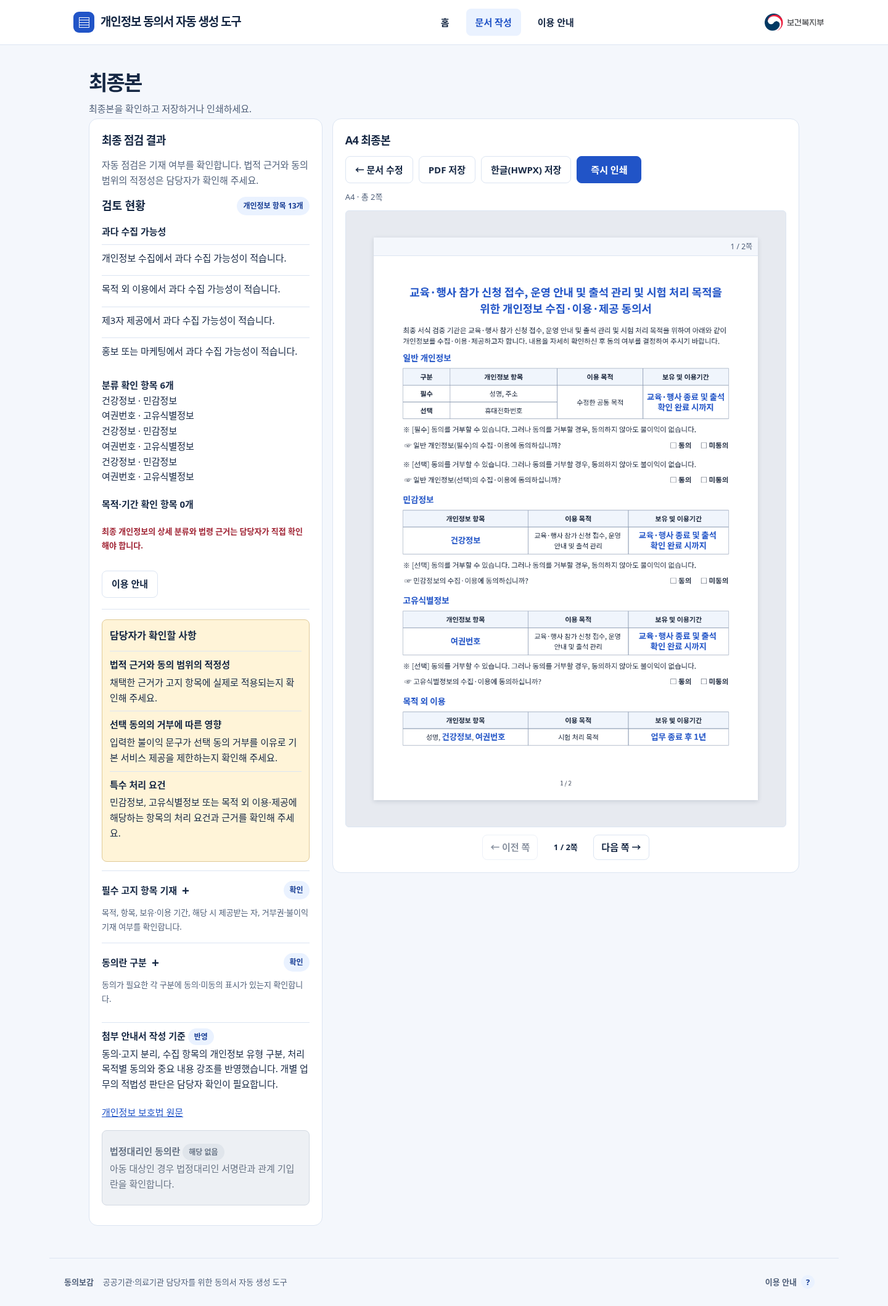
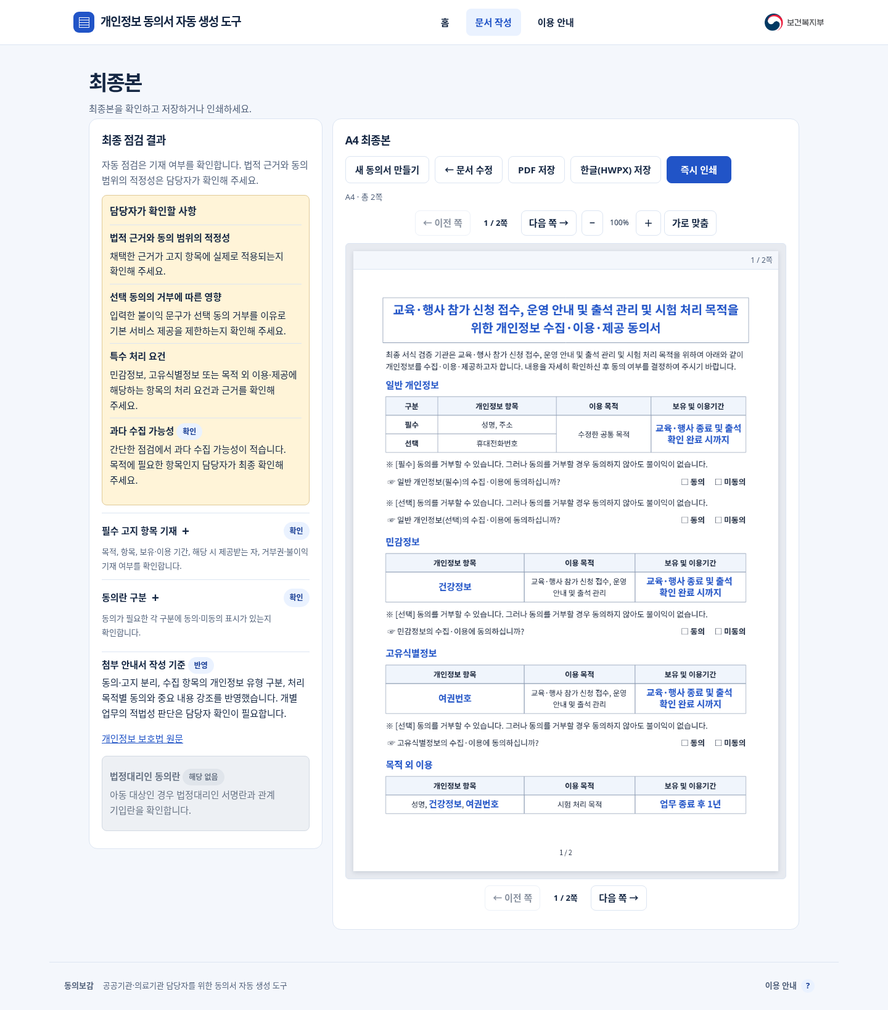
Improve preview zoom controls, final review and Hangul document spacing

diff --git a/app.js b/app.js
@@ -43,7 +43,7 @@ const itemNames = new Map(
   ['연령','나이'],
   ['국적'],
   ['소속','소속명'],
-  ['소속 업체명','소속 회사명','소속 기업명'],
+  ['소속 기관명','소속 업체명','소속 회사명','소속 기업명'],
   ['부서명','소속 부서','부서 이름'],
   ['직위'],
   ['직급'],
@@ -216,7 +216,7 @@ function home(){
 }
 const canSetRequired = key => Object.hasOwn(groupNames,key)&&key!=='marketing';
 const itemPresetGroups = [
- ['일반 개인정보', ['성명','휴대전화번호','전화번호','생년월일','이메일 주소','성별','주소','부서명','소속 업체명','업무용 연락처','은행명','계좌번호','예금주명']],
+ ['일반 개인정보', ['성명','휴대전화번호','전화번호','생년월일','이메일 주소','성별','주소','부서명','소속 기관명','업무용 연락처','은행명','계좌번호','예금주명']],
  ['민감정보', ['건강정보','범죄경력']],
  ['고유식별정보', ['주민등록번호','외국인등록번호','운전면허번호','여권번호']]
 ];
@@ -608,7 +608,7 @@ const refusalText = (s,preview) => {
  return preview?'<em class="doc-refusal-missing">아직 입력하지 않았습니다</em>':'';
 };
 const note = text => `<p class="doc-note"><span class="doc-note-marker" aria-hidden="true">※</span> <span>${text}</span></p>`;
-const refusalPrefix = s => `${s.required==='공통'?'':'['+(s.required||'선택')+'] '}동의를 거부할 수 있습니다. 그러나 동의를 거부할 경우, `;
+const refusalPrefix = s => `${s.required==='공통'?'':'['+(s.required||'선택')+'] '}동의를 거부할 수 있습니다. 그러나 동의를 거부할 경우 `;
 const marketingContact = '<p class="doc-marketing"><strong>제공하신 연락처로 마케팅 안내나 홍보 연락을 받을 수 있습니다.</strong></p>';
 const editableText = (label,key,value,editable) => `<span class="doc-text" ${editable?`contenteditable="plaintext-only" role="textbox" aria-label="${safe(label)}" data-edit="${key}"`:''}>${safe(state.edits[key]??value)}</span>`;
 const noticeBasisText=item=>[...new Set((item.bases||[]).filter(b=>LawBasis.rules[b.basisCode]?.effect!=='consent').map(b=>[...new Set([LawBasis.rules[b.basisCode]?.pipa,b.cite].filter(Boolean))].join(' · ')))].join(' / ');
@@ -647,7 +647,7 @@ function noticeTable(sections,editable){
 }
 const signatureLine = '_'.repeat(24);
 function signatureBlock(){
- return `<article class="sign"><p>　　　　년　　 월　　 일</p><p>정보주체: <span class="signature-line">${signatureLine}</span> (서명)</p>${state.child?`<p class="guardian-heading"><strong>만 14세 미만 아동의 법정대리인 동의</strong></p><p>법정대리인: <span class="signature-line">${signatureLine}</span> (서명)</p><p class="guardian-relationship">아동과의 관계: <span class="signature-line relationship-line">${'_'.repeat(16)}</span></p>`:''}</article>`;
+ return `<article class="sign"><p class="signature-date">　　　　년　　 월　　 일</p><p>정보주체: <span class="signature-line">${signatureLine}</span> (서명)</p>${state.child?`<p class="guardian-heading"><strong>만 14세 미만 아동의 법정대리인 동의</strong></p><p>법정대리인: <span class="signature-line">${signatureLine}</span> (서명)</p><p class="guardian-relationship">아동과의 관계: <span class="signature-line relationship-line">${'_'.repeat(16)}</span></p>`:''}</article>`;
 }
 function documentHTML(editable=false){
  const rows=sections();if(!rows.length)return '';
@@ -656,9 +656,13 @@ function documentHTML(editable=false){
  const title=state.title.trim()||suggestedTitle(),intro=state.intro.trim()||defaultIntro();
  return `<section class="doc"><h1>${safe(title)}</h1><p class="doc-intro">${safe(intro)}</p>${[...consentGroups.values()].map(group=>categoryTable(group,editable)).join('')}${noticeGroups.size?`<section class="notice-section"><h3 class="doc-notice-heading">고지사항</h3>${[...noticeGroups.values()].map(group=>noticeTable(group,editable)).join('')}</section>`:''}${consentGroups.size?signatureBlock():''}<p class="doc-agency"><strong>${safe(state.agency||'기관명 미입력')} 귀중</strong></p></section>`;
 }
-function previewMarkup(html,editing=false){
- return `<p class="a4-preview-status muted" role="status">${editing?'표 수정 중입니다. 저장하면 A4 쪽 미리보기가 갱신됩니다.':'A4 미리보기를 준비하고 있습니다…'}</p><div class="a4-document-frame" role="region" aria-label="A4 문서 쪽 미리보기" ${editing?'hidden':''}></div><nav class="a4-page-nav" aria-label="미리보기 쪽 이동" ${editing?'hidden':''}><button data-preview-move="-1" disabled>← 이전 쪽</button><output class="a4-page-counter" aria-live="polite">1 / 1쪽</output><button data-preview-move="1" disabled>다음 쪽 →</button></nav><div id="preview-docs" class="document-source" ${editing?'':'hidden'}>${html}</div>`;
+function previewControls(editing,top=false){
+ return `<nav class="a4-page-nav ${top?'a4-nav-top':''}" aria-label="미리보기 ${top?'상단':'하단'} 쪽 이동" ${editing?'hidden':''}><button data-preview-move="-1" disabled>← 이전 쪽</button><output class="a4-page-counter" aria-live="polite">1 / 1쪽</output><button data-preview-move="1" disabled>다음 쪽 →</button>${top?'<span class="preview-zoom"><button data-preview-zoom="-0.1" aria-label="미리보기 축소">−</button><output class="preview-zoom-value">100%</output><button data-preview-zoom="0.1" aria-label="미리보기 확대">＋</button><button data-preview-zoom="fit">가로 맞춤</button></span>':''}</nav>`;
 }
+function previewMarkup(html,editing=false){
+ return `<p class="a4-preview-status muted" role="status">${editing?'표 수정 중입니다. 저장하면 A4 쪽 미리보기가 갱신됩니다.':'A4 미리보기를 준비하고 있습니다…'}</p>${previewControls(editing,true)}<div class="a4-document-frame" role="region" aria-label="A4 문서 쪽 미리보기" data-zoom="1" ${editing?'hidden':''}></div>${previewControls(editing)}<div id="preview-docs" class="document-source" ${editing?'':'hidden'}>${html}</div>`;
+}
+
 let a4PreviewVersion=0,a4PreviewTimer,pdfViewer;
 function scheduleA4Preview(){
  clearTimeout(a4PreviewTimer);const version=++a4PreviewVersion;
@@ -692,17 +696,17 @@ function scheduleA4Preview(){
 
 function fitA4Page(){
  const frame=document.querySelector('.a4-document-frame'),paper=frame?.querySelector('.a4-paper:not([hidden])');if(!paper)return;
- const position=frame.getBoundingClientRect().top,top=position>=innerHeight?180:Math.max(16,position),available=Math.max(210,Math.min(1000,innerHeight-top-78));
- frame.style.height=available+'px';
- const labelHeight=paper.querySelector('.a4-page-label').getBoundingClientRect().height;
- const width=Math.max(1,Math.min(frame.clientWidth-24,(available-28-labelHeight)*210/297));paper.style.width=width+'px';
+ const zoom=Number(frame.dataset.zoom)||1;frame.classList.toggle('preview-magnified',zoom>1);
+ const width=Math.max(1,frame.clientWidth-24)*zoom;paper.style.width=width+'px';
+ document.querySelectorAll('.preview-zoom-value').forEach(n=>n.textContent=Math.round(zoom*100)+'%');
 }
+
 function showA4Page(page){
  const frame=document.querySelector('.a4-document-frame');if(!frame)return;
  const pages=[...frame.querySelectorAll('.a4-paper')];page=Math.max(1,Math.min(pages.length,page));if(!pages.length)return;
  pages.forEach((paper,n)=>paper.hidden=n+1!==page);frame.dataset.currentPage=page;
- document.querySelector('.a4-page-counter').textContent=page+' / '+pages.length+'쪽';
- document.querySelector('[data-preview-move="-1"]').disabled=page===1;document.querySelector('[data-preview-move="1"]').disabled=page===pages.length;
+ document.querySelectorAll('.a4-page-counter').forEach(n=>n.textContent=page+' / '+pages.length+'쪽');
+ document.querySelectorAll('[data-preview-move="-1"]').forEach(n=>n.disabled=page===1);document.querySelectorAll('[data-preview-move="1"]').forEach(n=>n.disabled=page===pages.length);
  fitA4Page();
 }
 window.addEventListener('resize',fitA4Page);
@@ -710,11 +714,11 @@ window.addEventListener('resize',fitA4Page);
 function output(){
  const rows=hasConsent()?refusalSections():[];
  const docs=documentHTML(documentEditing);
- return `<div class="output-layout"><div class="stack output-settings"><section class="panel review-status">${reviewStatus()}</section><section class="panel stack"><h2>문서 기본 설정</h2>${field('문서 제목','title',state.title,suggestedTitle(),false,true)}<div><button data-title>${hasConsent()?'제목 후보 적용':'고지서 제목 후보 적용'}</button></div>${field('제목 아래 안내사항','intro',state.intro,defaultIntro(),true,true)}<div><button data-intro>${hasConsent()?'안내사항 후보 적용':'고지사항 안내문 적용'}</button></div></section>
+ return `<div class="output-layout"><div class="stack output-settings"><section class="panel stack"><h2>문서 기본 설정</h2>${field('문서 제목','title',state.title,suggestedTitle(),false,true)}<div><button data-title>${hasConsent()?'제목 후보 적용':'고지서 제목 후보 적용'}</button></div>${field('제목 아래 안내사항','intro',state.intro,defaultIntro(),true,true)}<div><button data-intro>${hasConsent()?'안내사항 후보 적용':'고지사항 안내문 적용'}</button></div></section>
  ${hasConsent()?`<fieldset class="panel child-choice"><legend>만 14세 미만 아동 대상 여부${requiredMark}</legend><p class="muted">아동 대상이면 동의서에 법정대리인 동의·서명란을 추가합니다.</p><div class="actions"><label class="check"><input type="radio" name="child" required data-child value="yes" ${state.child?'checked':''}> 대상</label><label class="check"><input type="radio" name="child" required data-child value="no" ${state.child===false?'checked':''}> 대상 아님</label></div></fieldset>`:''}
  <section class="panel stack"><h2>동의 거부 시 불이익</h2>${rows.length?'<p class="muted">동의를 거부하거나 정보를 제공하지 않았을 때의 영향을 적어 주세요.</p>':''}${rows.length?rows.map(s=>field(sectionTitle(s)+(s.classification==='rnn'?' · 번호 미제공 시 안내':''),'refusals.'+s.k.replaceAll('.',':'),state.refusals[s.k],'해당하는 불이익 또는 안내 내용을 입력하세요.',true,true)).join(''):'<p class="not-applicable">동의를 받아 개인정보를 수집하지 않기 때문에 해당사항 없습니다.</p>'}</section>
 </div>
- <section class="panel preview-panel"><div class="panelhead"><h2>A4 문서 미리보기</h2><button data-toggle-document-edit aria-pressed="${documentEditing}">${documentEditing?'저장하기':'표 내용 직접 수정'}</button></div><div class="actions export"><button class="primary" data-finish ${docs?'':'disabled'}>완성하기 →</button></div><p class="notice" id="output-status" role="status"></p>${previewMarkup(docs||'<p>문서에 표시할 항목이 없습니다.</p>',documentEditing)}</section></div>`;
+ <section class="panel preview-panel"><div class="panelhead"><h2>A4 문서 미리보기</h2><div class="preview-edit-actions"><button data-toggle-document-edit aria-pressed="${documentEditing}">${documentEditing?'저장하기':'내용 직접 수정하기'}</button><button class="primary" data-finish ${docs?'':'disabled'}>완성하기</button></div></div><p class="notice" id="output-status" role="status"></p>${previewMarkup(docs||'<p>문서에 표시할 항목이 없습니다.</p>',documentEditing)}</section></div>`;
 }
 function validateDraft(){
  const missingRefusal=hasConsent()?refusalSections().find(s=>!state.refusals[s.k]?.trim()):null;
@@ -778,15 +782,16 @@ function finalPage(){
  const pill=status=>`<span class="pill ${['확인','해당 없음','반영'].includes(status)?'':'pending'}">${status}</span>`;
  const row=([title,status,description])=>`<li><div><strong>${safe(title)}</strong> ${status==='담당자 확인 필요'?'':pill(status)}</div><p>${safe(description)}</p></li>`;
  const auditBody=choices=>audit.length?audit.map(section=>`<section><h3>${safe(section.title)}</h3><ul>${section.checks.filter(([label])=>/독립된 동의|동의란의/.test(label)===choices).map(([label,ok])=>`<li><label><input type="checkbox" disabled ${ok?'checked':''}>${safe(label)} <span>${ok?'확인':'보완 필요'}</span></label></li>`).join('')}</ul></section>`).join(''):'<p class="not-applicable">동의 항목이 없는 고지서입니다. 동의란 점검은 해당사항 없습니다.</p>';
- const pending=items.filter(([,status])=>!['확인','해당 없음','반영'].includes(status));
+ const collectionRisk=entries().some(contextualRisk);
+ const pending=[...items.filter(([,status])=>!['확인','해당 없음','반영'].includes(status)),['과다 수집 가능성',collectionRisk?'담당자 확인 필요':'확인',collectionRisk?'수집 목적에 비해 과다 수집 가능성이 있습니다. 항목의 필요성은 담당자가 최종 판단해 주세요.':'간단한 점검에서 과다 수집 가능성이 적습니다. 목적에 필요한 항목인지 담당자가 최종 확인해 주세요.']];
  return `<div class="title"><h1 tabindex="-1">최종본</h1><p>최종본을 확인하고 저장하거나 인쇄하세요.</p></div>
  <div class="final-layout"><section class="panel final-review" aria-labelledby="final-review-title"><h2 id="final-review-title">최종 점검 결과</h2>
- <p class="muted">자동 점검은 기재 여부를 확인합니다. 법적 근거와 동의 범위의 적정성은 담당자가 확인해 주세요.</p><section class="final-status">${reviewStatus()}</section>
+ <p class="muted">자동 점검은 기재 여부를 확인합니다. 법적 근거와 동의 범위의 적정성은 담당자가 확인해 주세요.</p>
  <section class="human-review"><h3>담당자가 확인할 사항</h3><ul>${pending.map(row).join('')}</ul></section>
  <details class="review-checks" data-audit-kind="fields"><summary><span class="review-check-title"><strong>${items[0][0]}</strong><span class="review-toggle" aria-hidden="true"></span>${pill(items[0][1])}</span><span class="review-check-description">${items[0][2]}</span></summary><div class="consent-audit">${auditBody(false)}</div></details>
  <details class="review-checks" data-audit-kind="choices"><summary><span class="review-check-title"><strong>동의란 구분</strong><span class="review-toggle" aria-hidden="true"></span>${pill(items[1][1])}</span><span class="review-check-description">${items[1][2]}</span></summary><div class="choice-audit">${auditBody(true)}</div></details>
  <ul>${items.slice(2).filter(([,status])=>['확인','반영'].includes(status)).map(row).join('')}</ul><a href="${reference}" target="_blank" rel="noopener">개인정보 보호법 원문</a><ul class="not-applicable-review">${items.slice(2).filter(([,status])=>status==='해당 없음').map(row).join('')}</ul></section>
- <section class="panel preview-panel final-preview"><div class="panelhead"><h2>A4 최종본</h2></div><div class="actions export"><button data-go="4">← 문서 수정</button><button data-pdf>PDF 저장</button><button data-hwpx>한글(HWPX) 저장</button><button class="primary" data-print>즉시 인쇄</button></div><p class="notice" id="output-status" role="status"></p>${previewMarkup(html)}</section></div>`;
+ <section class="panel preview-panel final-preview"><div class="panelhead"><h2>A4 최종본</h2></div><div class="actions export"><button data-new-consent>새 동의서 만들기</button><button data-go="4">← 문서 수정</button><button data-pdf>PDF 저장</button><button data-hwpx>한글(HWPX) 저장</button><button class="primary" data-print>즉시 인쇄</button></div><p class="notice" id="output-status" role="status"></p>${previewMarkup(html)}</section></div>`;
 }
 
 function refreshPreview(){
@@ -874,7 +879,7 @@ const quickTemplates = [
   title:'용역·유지보수 인력 보안 및 출입 동의서',
   purpose:'용역·유지보수 인력의 출입 권한 발급·회수 및 출입 관리',
   period:'출입 권한 회수 완료 시까지',
-  items:['성명','소속 업체명','업무용 연락처'],
+  items:['성명','소속 기관명','업무용 연락처'],
   note:'자동 입력 기간은 출입 등록 정보 기준입니다. 출입기록을 함께 처리하면 기관의 기록 보존 기준과 연락처 수집 필요 여부를 확인하세요.'
  },
  {
@@ -1178,6 +1183,8 @@ document.addEventListener('click',e=>{
  const group=e.target.closest('.law-options-group>summary');if(group){const type=group.parentElement.dataset.lawGroup;lawSearch.groupOpen??={};lawSearch.groupOpen[type]=!group.parentElement.open;if(!group.parentElement.open){e.preventDefault();lawSearch.showAlternatives??={};lawSearch.showAlternatives[type]=true;lawSearch.hidden=(lawSearch.hidden||[]).filter(n=>lawSearch.candidates[n]?.type!==type);render();} }
  if(!e.target.closest('.item-picker'))closeItemMenus();
  const b=e.target.closest('button');if(!b)return;const d=b.dataset;
+ if(d.previewZoom){const frame=document.querySelector('.a4-document-frame');frame.dataset.zoom=d.previewZoom==='fit'?1:Math.max(.5,Math.min(2,Math.round(((Number(frame.dataset.zoom)||1)+Number(d.previewZoom))*10)/10));fitA4Page();return;}
+ if('newConsent' in d){state=newDraft();lawSearch={busy:false,candidates:[],error:'',note:'',mode:'live',rejected:[],version:lawSearch.version+1};freshLawPicker();editorOpen=false;documentEditing=false;finalDocument=null;basicsChecked=false;message='';tab='collect';reached=0;go(1);return;}
  if(d.previewMove){showA4Page(Number(document.querySelector('.a4-document-frame')?.dataset.currentPage||1)+Number(d.previewMove));return;}
  if(d.itemMenu){const menu=document.getElementById('item-options-'+d.itemMenu),open=menu.hidden;closeItemMenus();menu.hidden=!open;b.setAttribute('aria-expanded',String(open));if(open)positionItemMenu(menu,b);}
  if(d.selectItem){const select=document.querySelector(`[data-item-preset="${d.selectItem}"]`);select.value=d.value;select.dispatchEvent(new Event('change',{bubbles:true}));}
@@ -1409,8 +1416,8 @@ function documentTableGrid(table){
 
 // Values below use HWPUNIT (1/100 pt). The width matches the A4 template's text area.
 function hwpxTable(table,paragraph,nextId,preview,cellRenderer){
- const rows=[...table.rows],width=42520,rowHeight=1800;
- const weights=[...rows[0].cells].map(cell=>['구분','처리 방식'].includes(cell.textContent.trim())?0.55:1);
+ const rows=[...table.rows],width=42520,rowHeight=2500;
+ const weights=[...rows[0].cells].map(cell=>['구분','처리 방식'].includes(cell.textContent.trim())?0.32:1);
  const total=weights.reduce((sum,weight)=>sum+weight,0);
  const widths=weights.map(weight=>Math.floor(width*weight/total));
  widths[widths.length-1]+=width-widths.reduce((sum,part)=>sum+part,0);
@@ -1421,10 +1428,10 @@ function hwpxTable(table,paragraph,nextId,preview,cellRenderer){
   return `<hp:tr>${row.filter(entry=>entry.start===rowIndex).map(({cell,column,span})=>{
    const emphasis=!header&&(cell.tagName==='TH'||cell.querySelector('strong'));
    const content=cellRenderer?cellRenderer(cell,header):cell.textContent.trim().split(/\r?\n/).map(line=>paragraph(line,20,header?9:emphasis?7:0)).join('');
-   return `<hp:tc name="" header="${Number(header)}" hasMargin="0" protect="0" editable="0" dirty="1" borderFillIDRef="${header||cell.tagName==='TH'?4:3}"><hp:subList id="" textDirection="HORIZONTAL" lineWrap="BREAK" vertAlign="CENTER" linkListIDRef="0" linkListNextIDRef="0" textWidth="0" textHeight="0" hasTextRef="0" hasNumRef="0">${content}</hp:subList><hp:cellAddr colAddr="${column}" rowAddr="${rowIndex}"/><hp:cellSpan colSpan="1" rowSpan="${span}"/><hp:cellSz width="${widths[column]}" height="${rowHeight*span}"/><hp:cellMargin left="510" right="510" top="141" bottom="141"/></hp:tc>`;
+   return `<hp:tc name="" header="${Number(header)}" hasMargin="0" protect="0" editable="0" dirty="1" borderFillIDRef="${header||cell.tagName==='TH'?4:3}"><hp:subList id="" textDirection="HORIZONTAL" lineWrap="BREAK" vertAlign="CENTER" linkListIDRef="0" linkListNextIDRef="0" textWidth="0" textHeight="0" hasTextRef="0" hasNumRef="0">${content}</hp:subList><hp:cellAddr colAddr="${column}" rowAddr="${rowIndex}"/><hp:cellSpan colSpan="1" rowSpan="${span}"/><hp:cellSz width="${widths[column]}" height="${rowHeight*span}"/><hp:cellMargin left="510" right="510" top="420" bottom="420"/></hp:tc>`;
   }).join('')}</hp:tr>`;
  }).join('');
- return `<hp:p id="${nextId()}" paraPrIDRef="0" styleIDRef="0" pageBreak="0" columnBreak="0" merged="0"><hp:run charPrIDRef="0"><hp:tbl id="${id}" zOrder="0" numberingType="TABLE" textWrap="TOP_AND_BOTTOM" textFlow="BOTH_SIDES" lock="0" dropcapstyle="None" pageBreak="CELL" repeatHeader="1" rowCnt="${rows.length}" colCnt="${widths.length}" cellSpacing="0" borderFillIDRef="3" noAdjust="0"><hp:sz width="${width}" widthRelTo="ABSOLUTE" height="${rowHeight*rows.length}" heightRelTo="ABSOLUTE" protect="0"/><hp:pos treatAsChar="1" affectLSpacing="0" flowWithText="1" allowOverlap="0" holdAnchorAndSO="0" vertRelTo="PARA" horzRelTo="COLUMN" vertAlign="TOP" horzAlign="LEFT" vertOffset="0" horzOffset="0"/><hp:outMargin left="0" right="0" top="0" bottom="0"/><hp:inMargin left="510" right="510" top="141" bottom="141"/>${cells}</hp:tbl></hp:run></hp:p>`;
+ return `<hp:p id="${nextId()}" paraPrIDRef="0" styleIDRef="0" pageBreak="0" columnBreak="0" merged="0"><hp:run charPrIDRef="0"><hp:tbl id="${id}" zOrder="0" numberingType="TABLE" textWrap="TOP_AND_BOTTOM" textFlow="BOTH_SIDES" lock="0" dropcapstyle="None" pageBreak="CELL" repeatHeader="1" rowCnt="${rows.length}" colCnt="${widths.length}" cellSpacing="0" borderFillIDRef="3" noAdjust="0"><hp:sz width="${width}" widthRelTo="ABSOLUTE" height="${rowHeight*rows.length}" heightRelTo="ABSOLUTE" protect="0"/><hp:pos treatAsChar="1" affectLSpacing="0" flowWithText="1" allowOverlap="0" holdAnchorAndSO="0" vertRelTo="PARA" horzRelTo="COLUMN" vertAlign="TOP" horzAlign="LEFT" vertOffset="0" horzOffset="0"/><hp:outMargin left="0" right="0" top="0" bottom="0"/><hp:inMargin left="510" right="510" top="420" bottom="420"/>${cells}</hp:tbl></hp:run></hp:p>`;
 }
 
 async function createHwpx(body){
@@ -1440,6 +1447,7 @@ async function createHwpx(body){
  const richParagraph=(runs,align)=>`<hp:p id="${nextId()}" paraPrIDRef="${align}" styleIDRef="0" pageBreak="0" columnBreak="0" merged="0">${runs}</hp:p>`;
  const paragraph=(text,align,style)=>richParagraph(run(text,style),align);
  let header=files['Contents/header.xml'];
+ header=header.replace(/breakNonLatinWord="BREAK_WORD"/g,'breakNonLatinWord="KEEP_WORD"');
  header=header.replace(/textColor="#(?:2E74B5|174DA1)"/g,'textColor="#2154C7"');
  header=header.replace(/<(hh:(?:left|right|top|bottom)Border) type="SOLID"[^>]*\/>/g,'<$1 type="SOLID" width="0.12 mm" color="#000000"/>');
  const paraIds=[...header.matchAll(/<hh:paraPr id="(\d+)"/g)].map(m=>Number(m[1]));
@@ -1467,8 +1475,8 @@ async function createHwpx(body){
   return `<hp:p id="${nextId()}" paraPrIDRef="0" styleIDRef="0" pageBreak="0" columnBreak="0" merged="0"><hp:run charPrIDRef="0"><hp:tbl id="${nextId()}" zOrder="0" numberingType="TABLE" textWrap="TOP_AND_BOTTOM" textFlow="BOTH_SIDES" lock="0" dropcapstyle="None" pageBreak="CELL" repeatHeader="0" rowCnt="1" colCnt="2" cellSpacing="0" borderFillIDRef="1" noAdjust="0"><hp:sz width="42520" widthRelTo="ABSOLUTE" height="1800" heightRelTo="ABSOLUTE" protect="0"/><hp:pos treatAsChar="1" affectLSpacing="0" flowWithText="1" allowOverlap="0" holdAnchorAndSO="0" vertRelTo="PARA" horzRelTo="COLUMN" vertAlign="TOP" horzAlign="LEFT" vertOffset="0" horzOffset="0"/><hp:outMargin left="0" right="0" top="0" bottom="0"/><hp:inMargin left="0" right="0" top="0" bottom="0"/><hp:tr>${cells}</hp:tr></hp:tbl></hp:run></hp:p>`;
  };
  const paragraphs=documents.flatMap(doc=>{let previous=null;return [...doc.querySelectorAll('h1,h3,table,p')].flatMap(node=>{
-   const gap=(node.matches('h3,.guardian-heading,.sign > p:first-child,.doc-agency')&&previous&&!previous.matches('.doc-intro'))?[paragraph('',0,0)]:[];previous=node;
-   const finish=content=>[...gap,...(Array.isArray(content)?content:[content]),...(node.matches('h1,.doc-intro')?[paragraph('',0,0)]:[])];
+   const gap=(node.matches('h3,.guardian-heading,.sign > p:first-child,.doc-agency')&&previous&&!previous.matches('.doc-intro'))?[paragraph('',0,0),...(node.matches('.doc-agency')?[paragraph('',0,0)]:[])]:[];previous=node;
+   const finish=content=>[...gap,...(Array.isArray(content)?content:[content]),...(node.matches('h1,.doc-intro,.signature-date')?[paragraph('',0,0)]:[])];
    if(node.matches('table'))return finish(hwpxTable(node,paragraph,nextId,preview,cellRenderer));
    if(node.matches('.doc-choice')){
     const [question,choices]=[...node.children].map(child=>child.textContent);

diff --git a/style.css b/style.css
@@ -465,3 +465,19 @@
 .review-check-description{display:block;color:var(--muted);font-size:13px;line-height:1.75;margin-top:8px}
 .not-applicable-review{margin-top:16px!important;padding:12px!important;list-style:none;background:#edf0f4;border:1px solid #d3dae3;border-radius:8px;color:#697586}
 .not-applicable-review:empty{display:none}.not-applicable-review .pill{background:#e0e5eb;color:#697586}.not-applicable-review li{border:0!important}
+/* Width-based sizing is independent of scroll position and remains stable on first paint. */
+.a4-document-frame{height:auto!important;max-height:none!important;display:block;overflow:hidden;min-height:0!important}
+.a4-document-frame:empty{aspect-ratio:210/305}
+.a4-paper{max-width:none;margin-inline:auto!important}
+.a4-document-frame.preview-magnified{max-height:85vh!important;overflow:auto}
+.preview-magnified .a4-paper{margin-left:0!important;margin-right:0!important}
+.a4-page-nav{gap:8px;margin:10px 0;justify-content:center}.a4-nav-top{margin-bottom:12px}
+.preview-zoom{display:flex;gap:5px;align-items:center;flex-wrap:wrap}.preview-zoom-value{min-width:43px;text-align:center;font-size:12px}
+.preview-edit-actions{display:flex;gap:7px;align-items:center;flex-wrap:wrap}.preview-panel>.panelhead{align-items:flex-start;flex-wrap:wrap}
+.preview-edit-actions button{white-space:nowrap}
+body{word-break:keep-all;overflow-wrap:break-word}.doc-table td,.doc-table th{word-break:keep-all;overflow-wrap:break-word}
+.final-review li{padding-block:8px}.final-review li p{margin:5px 0 0;line-height:1.65}.final-review ul{margin-block:8px}.final-review .human-review{margin:12px 0;padding:12px}.final-review .review-checks{padding-block:11px}.final-review .review-check-description{margin-top:5px}
+@media print{#print .doc h1{border:1px solid #8e9eb5;padding:10px;word-break:keep-all}}
+@media(max-width:570px){.preview-edit-actions{width:100%;justify-content:flex-end}.a4-page-nav{gap:5px}.a4-page-nav button{font-size:12px;padding:6px 8px}}
+.doc .signature-date{margin-bottom:2em}.doc .doc-agency{margin-top:calc(18px + 1em)}
+.class-item b,.item-picker button,.catalog-result strong,.candidate-title,.doc-text,.final-review p{word-break:keep-all;overflow-wrap:break-word}

diff --git a/pdf-export.js b/pdf-export.js
@@ -197,11 +197,11 @@ export async function createPdf(body,tableGrid){
  for(const doc of documents){
   nextPage();
   for(const node of doc.querySelectorAll('h1,h3,table,p')){
-   if(node.matches('h1'))paragraph(nodeText(node),{font:bold,size:17,color:blue,align:'center',after:12,keep:20});
+   if(node.matches('h1')){const titleHeight=wrapText(nodeText(node),bold,17,contentWidth).length*25.5;room(titleHeight+32);page.drawRectangle({x:margin-4,y:y-titleHeight-6,width:contentWidth+8,height:titleHeight+12,borderWidth:.5,borderColor:border});paragraph(nodeText(node),{font:bold,size:17,color:blue,align:'center',after:16,keep:20});}
    else if(node.matches('h3'))paragraph(nodeText(node),{font:bold,size:13,color:blue,after:5,keep:58});
    else if(node.matches('table'))table(node);
-   else if(node.matches('.doc-agency'))paragraph(nodeText(node),{font:bold,size:15,align:'center'});
-   else if(node.closest('.sign'))paragraph(nodeText(node),{align:'right'});
+   else if(node.matches('.doc-agency')){y-=16.5;paragraph(nodeText(node),{font:bold,size:15,align:'center'});}
+   else if(node.closest('.sign'))paragraph(nodeText(node),{align:'right',after:node.matches('.signature-date')?24.5:8});
    else if(node.matches('.doc-marketing'))paragraph(nodeText(node),{font:bold,size:11,color:blue});
    else if(node.matches('.doc-note'))paragraph(nodeText(node).replace(/^※\s*/,''),{prefix:'※',keep:node.nextElementSibling?.matches('.doc-marketing')?50:29});
    else if(node.matches('.doc-choice')){

diff --git a/tests/check_final_layout.py b/tests/check_final_layout.py
@@ -10,6 +10,25 @@ for paragraph in body.findall('.//p:tc//p:p',ns):
     assert spacings and all(s.get('type')=='PERCENT' and s.get('value')=='130' for s in spacings)
 props=head.find('.//h:paraProperties',ns);assert int(props.get('itemCnt'))==len(props)
 text=lambda n:''.join(n.itertext())
+for table in body.findall('.//p:tbl',ns):
+    cells=table.findall('p:tr/p:tc',ns)
+    if not cells: continue
+    if text(cells[0]).strip()=='구분':
+        width=int(table.find('p:sz',ns).get('width'))
+        assert int(cells[0].find('p:cellSz',ns).get('width'))<width*.12
+    if table.get('borderFillIDRef')=='3':
+        margin=table.find('p:inMargin',ns)
+        assert int(margin.get('top'))>=400 and int(margin.get('bottom'))>=400
+assert all(p.get('breakNonLatinWord')=='KEEP_WORD' for p in head.findall('.//h:breakSetting',ns))
+children=list(body)
+normalized=lambda n:''.join(text(n).split())
+date=next(i for i,p in enumerate(children) if normalized(p)=='년월일')
+assert not text(children[date+1]).strip()
+agency=next(i for i,p in enumerate(children) if normalized(p)=='최종서식검증기관귀중')
+assert not text(children[agency-1]).strip() and not text(children[agency-2]).strip()
+assert '거부할 경우,' not in text(body)
+print('PASS HWPX narrow classification column, generous vertical margins, word wrapping and extra date/agency spacing')
+
 questions=[p for p in body.findall('.//p:p',ns) if '☞' in text(p) and '동의하십니까?' in text(p) and p.find('.//p:tbl',ns) is None]
 assert len(questions)==7,len(questions)
 assert all(text(q).startswith((' ☞','\u00a0☞')) for q in questions)
@@ -26,6 +45,7 @@ except ImportError:
     print('SKIP PDF page/text checks: PyMuPDF unavailable')
 else:
     pdf=fitz.open('.test-output/final-layout.pdf');assert len(pdf)>=2
+    assert any(d['rect'].width>510 and d['rect'].y0<50 for d in pdf[0].get_drawings())
     all_text=''.join(''.join(p.get_text().split()) for p in pdf)
     assert all_text.count('동의하십니까?')==7
     assert '목적외이용에동의하십니까?' in all_text and '목적외제공에동의하십니까?' in all_text

diff --git a/docs/editor-flow.md b/docs/editor-flow.md
@@ -70,3 +70,13 @@ A4 미리보기는 한 쪽씩 표시하고 화면 높이에 맞춰 한 페이지
 담당자 확인 항목의 중복 배지는 제거했습니다. 필수 고지 항목 기재·동의란 구분의 설명은 접혀 있어도 보이며 제목 뒤 +/−를 누르면 상세 체크리스트가 열립니다. 해당사항 없는 점검은 회색으로 최하단에 모읍니다.
 
 검증: `TEST_BASE_URL=http://127.0.0.1:3016 node tests/collection-review.cjs`는 모든 단계에서 경고가 진행을 차단하지 않는지, 쪽 이동과 페이지 높이, 설명과 접기 표시, 최하단 제외 항목을 확인합니다.
+
+## 미리보기 크기와 최종 작업
+
+검토 현황은 1~3단계에서만 표시합니다. 최종 점검의 담당자 확인 목록에는 과다 수집 가능성을 별도 항목으로 포함합니다. 미리보기는 스크롤 위치·화면 높이에 따라 축소하지 않고 처음부터 가로 폭에 맞춥니다. 위·아래에 이전/다음 쪽 버튼을 표시하고 상단에 축소·확대·가로 맞춤을 제공합니다. 기본 100%에서는 가로 스크롤이 없으며 수동 확대 시에만 미리보기 내부 스크롤을 허용합니다.
+
+상단 완성하기는 내용 직접 수정하기 오른쪽에 두고 화살표를 생략합니다. 하단 완성하기 →는 유지합니다. 최종본에서 새 동의서 만들기를 누르면 문서·법령 선택·편집 상태를 초기화해 1단계부터 새로 작성합니다.
+
+한글 표의 구분 열을 좁히고 위·아래 내부 여백을 각각 4.2pt로 늘렸습니다. 단어 단위 줄바꿈을 우선 적용합니다. 거부 안내의 '거부할 경우' 뒤 쉼표를 제거했고, 날짜 아래에는 빈 문단 하나, 기관 귀중 앞에는 기존보다 빈 문단 하나를 추가합니다. 인쇄·PDF 제목에는 네 면 테두리를 표시합니다. 최종 점검의 문단·목록 간격을 줄였습니다.
+
+항목 목록과 용역·유지보수 기본 양식의 소속 표기를 소속 기관명으로 통일했습니다. 소속 업체명·소속 회사명·소속 기업명 입력도 새 표기로 정리합니다.

diff --git a/docs/grouped-documents.md b/docs/grouped-documents.md
@@ -36,4 +36,4 @@ python tests/check_guideline_exports.py
 
 기존 `.env`를 새 폴더의 `server.py` 옆에 두고 서버를 재시작한 뒤 Ctrl+F5로 새로고침하세요. `/api/status`의 `apiVersion`은 **8**입니다.
 
-기본 미리보기는 PDF와 동일한 A4 페이지를 PDF.js로 화면에 직접 그립니다. 총 쪽수와 현재 쪽 번호를 표시하며 한 쪽 전체가 들어오도록 축소합니다. 이전 쪽·다음 쪽 버튼으로 페이지를 이동합니다. 표 수정 중에는 편집 가능한 원문을 표시하고 저장 시 A4 페이지를 갱신합니다. 한글 표 내부 문단은 기본·대체 설정 모두 줄 간격 130%로 생성합니다.
+기본 미리보기는 PDF와 동일한 A4 페이지를 PDF.js로 화면에 직접 그립니다. 총 쪽수와 현재 쪽 번호를 표시하며 기본적으로 가로 폭을 채워 표시합니다. 이전 쪽·다음 쪽 버튼으로 페이지를 이동합니다. 표 수정 중에는 편집 가능한 원문을 표시하고 저장 시 A4 페이지를 갱신합니다. 한글 표 내부 문단은 기본·대체 설정 모두 줄 간격 130%로 생성합니다.
